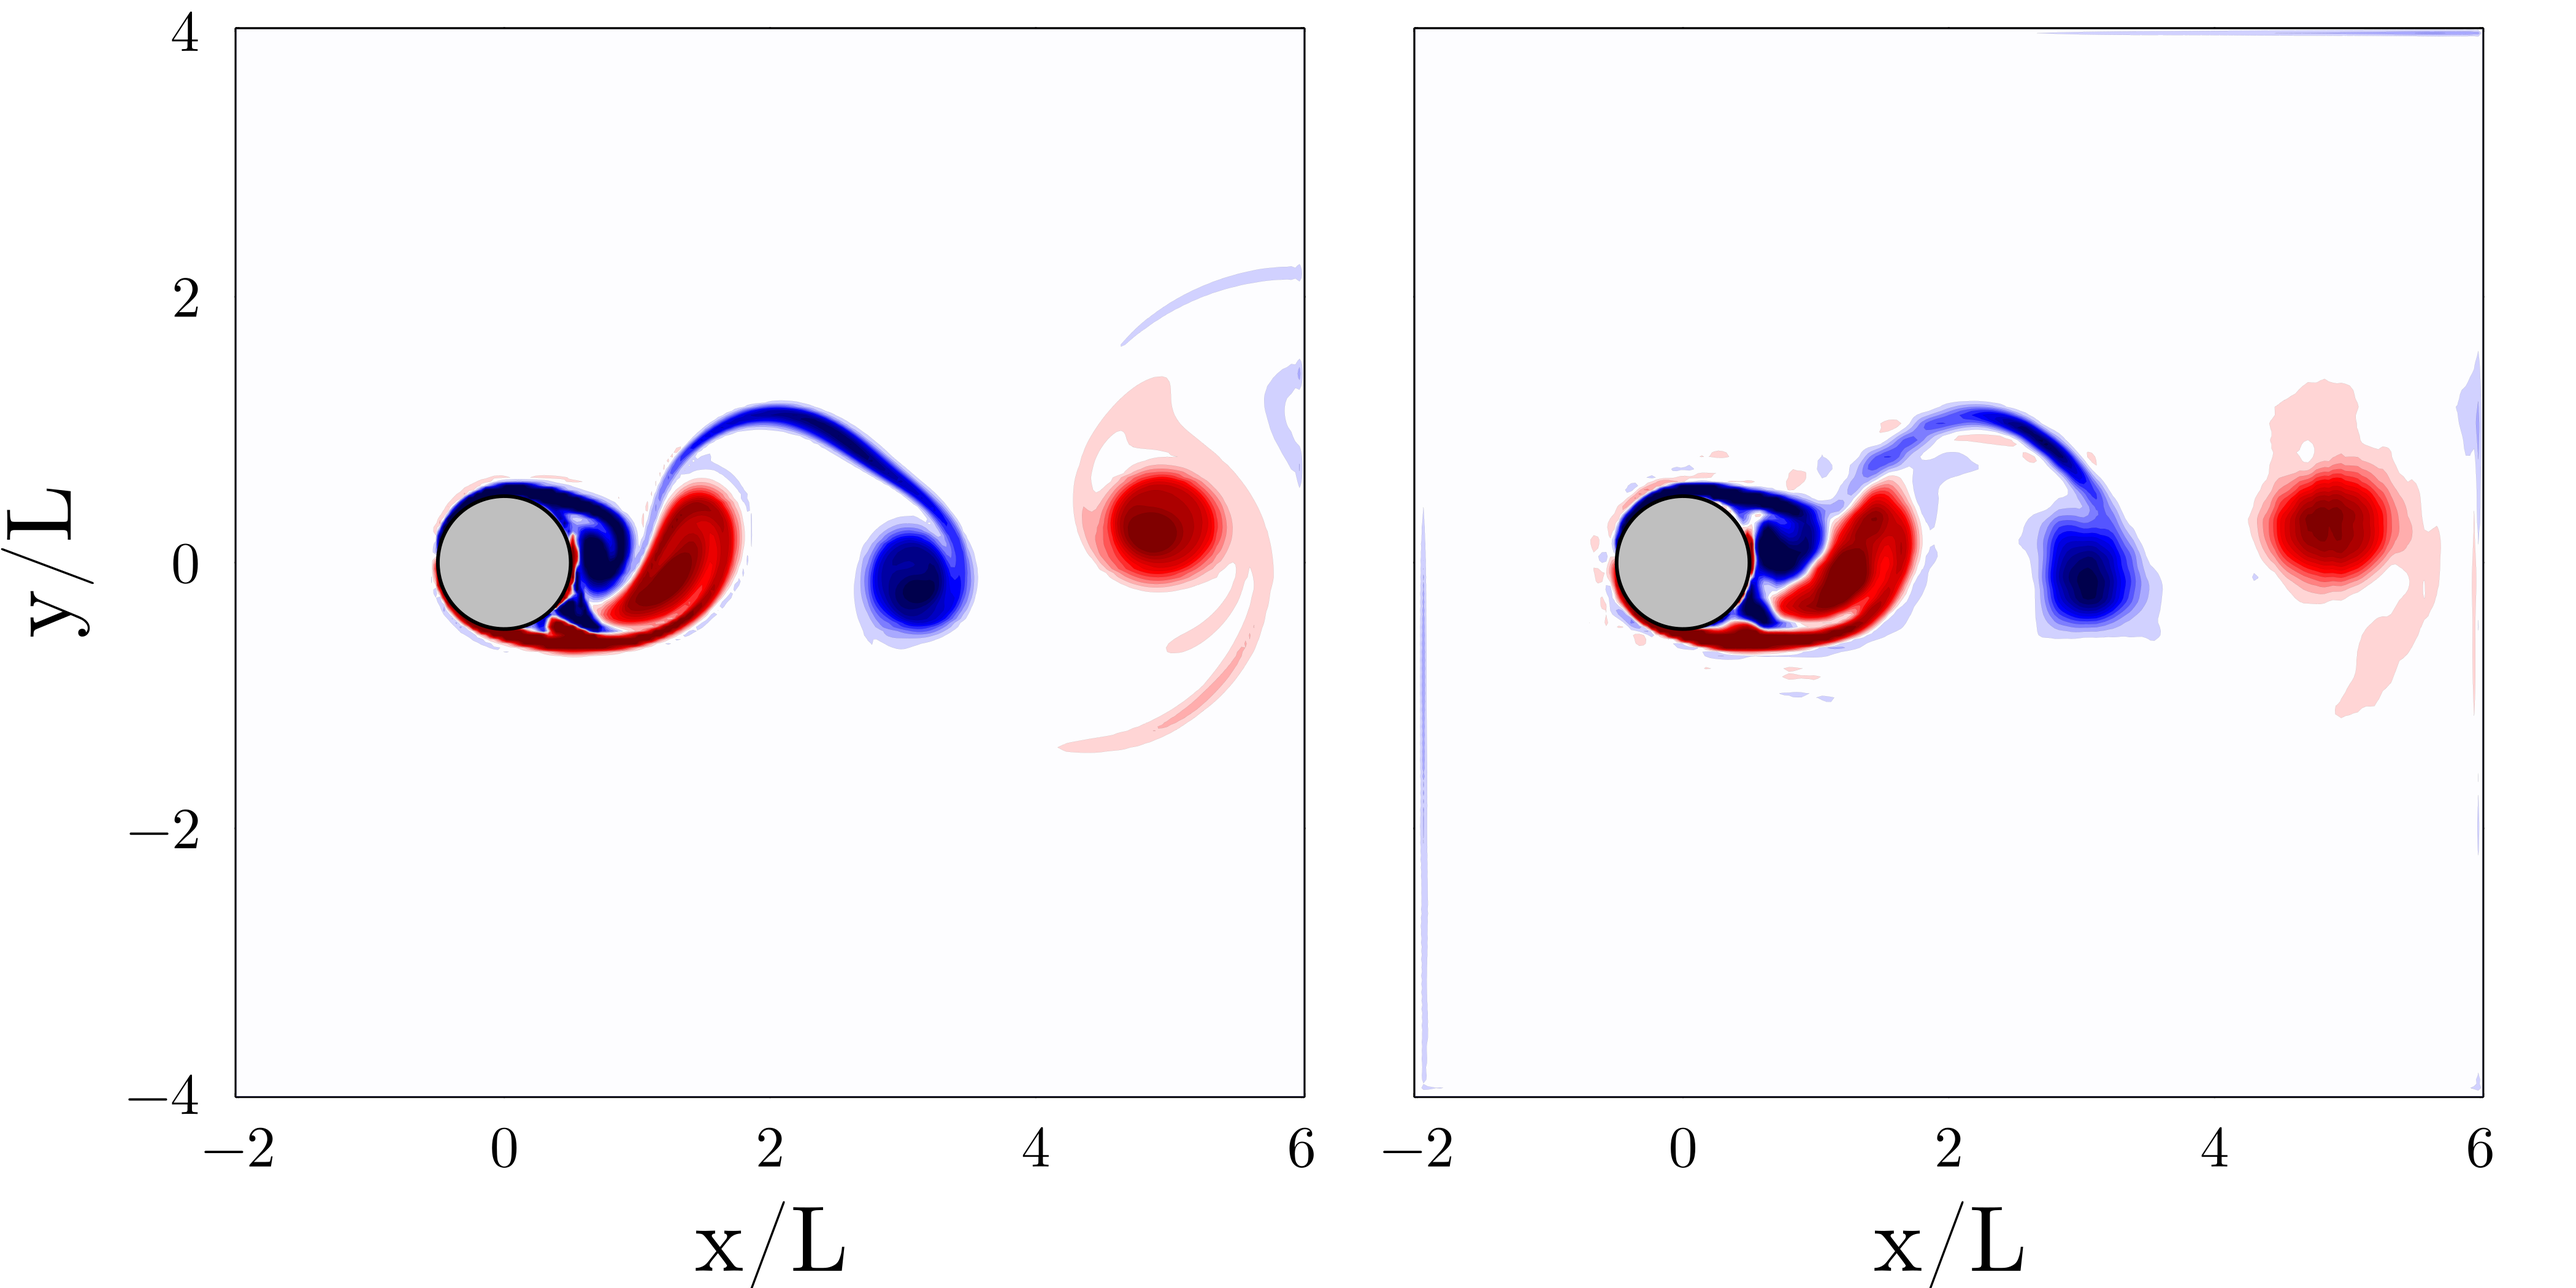
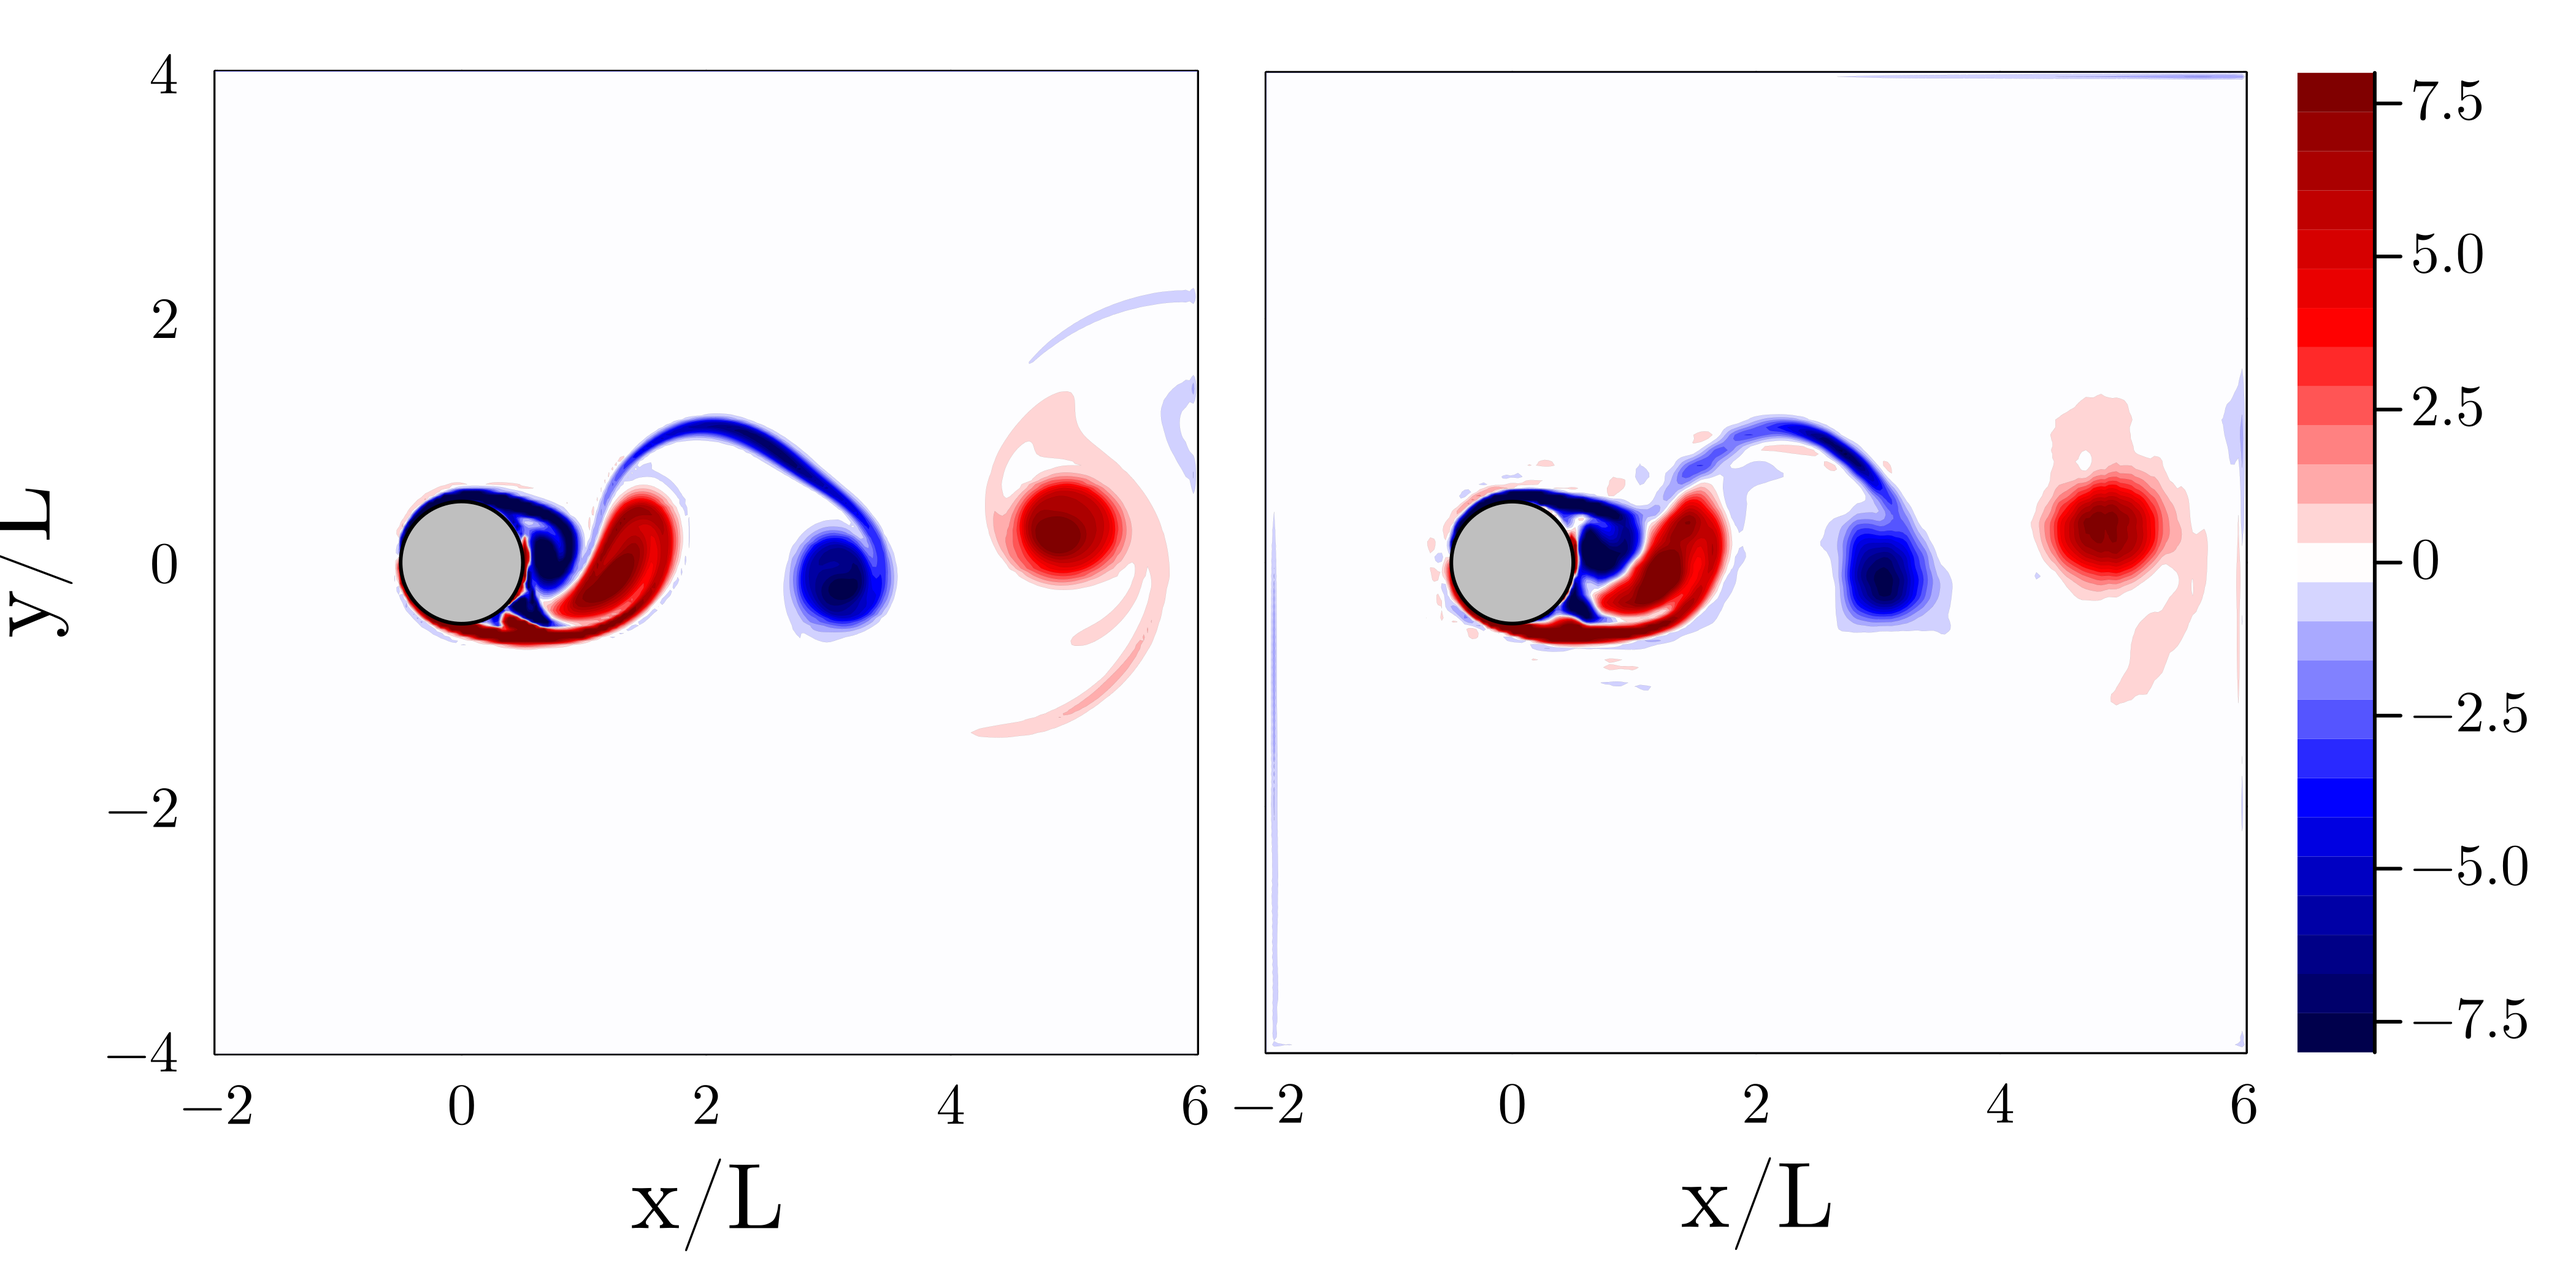
Updates from Overleaf

diff --git a/mainmatter/5. Results.tex b/mainmatter/5. Results.tex
@@ -586,8 +586,7 @@ In addition to the time-averaged statistics examined above, a physically faithfu
 In the low frequency part of the spectrum, both simulations clearly produce similar frequencies. The primary shedding frequency is nicely present at  at $fD/U \approx 0.2$ in both simulations, as was already visible in the force coefficient plot \ref{fig: base_forces}; the higher harmonics of the shedding frequency, associated with the secondary wake structures discussed in \ref{fig: vortex_shedding}, are also captured by the hybrid simulation. The hybrid and reference curve remain closely aligned in the middle frequency range, until the curves separate near $fD/U \approx 2$--$3$. No genuine Kolmogorov $f^{-5/3}$ inertial subrange is expected in a two-dimensional wake at $Re=2500$, in two dimensions the forward (small-scale) cascade follows the steeper $k^{-3}$ enstrophy scaling rather than $k^{-5/3}$ \cite{Boffetta2011}. 
 
 Beyond the separation frequency near $fD/U \approx 2$--$3$, the reference falls steeply to $\mathcal{O}(10^{-10})$, whereas the hybrid seems to move into a plateau two to four decades above the reference. This indicates that $\mathcal{P}$ introduces a high-frequency error that is not tied to a single frequency but is spread across the frequency range. It becomes visible only beyond the crossover near $fD/U \approx 2$--$3$, where the true spectrum drops below it;
-the crossover therefore marks the point at which the error stops being masked, not where it begins. Because this error is broadband and lies well below the energetic shedding scales, it is consistent with a reconstruction artefact of the decoder $\psi_\theta$ rather than an error in the learned latent dynamics $f_\phi$.
-
+The crossover, therefore, marks the point at which the error stops being masked, not where it begins. Because this error is broadband and lies well below the energetic shedding scales, it is consistent with a reconstruction artefact of the decoder $\psi_\theta$ rather than an error in the learned latent dynamics $f_\phi$.
 
 \subsection{Autoencoder performance}
 \label{subsect: 4_ae_performance}
@@ -615,21 +614,54 @@ The autoencoder is the entry and exit point of every $\tilde{\boldsymbol{\mathca
 \autoref{fig: combined_training_base} extends the loss over the 2 retraining stages, where each stage updates the weights for an additional $100$ epochs using a reduced learning rate (\autoref{subsect: retraining}). The first learning rate leaves the losses mostly unchanged, but with additional data, it has learned additional dynamics, reflected in the ability to perform longer rollouts, as discussed in \autoref{subsect: 4_forces}. The second retrain drives the test loss up by nearly an order of magnitude while train and validation hold steady: the accumulated dissipative drift (\autoref{subsect: 4_forces}) has pushed $\mathcal{S}$ into a regime that is under-represented in the training data, which makes it so that the generalisation outside of the training regime drastically worsens. This same disparity in training data, and current state of $\mathcal{S}$, is also reflected in the immediately truncated rollouts $7$ and $9$ (\autoref{tab: base_rollout_summary}).
 
 \subsubsection{Instantaneous reconstruction performance}
-The reconstruction of an instantaneous velocity field is displayed in  \autoref{fig: base_velocity_comp} for the two velocity components. These figures show that $\psi_\theta$ performs well in reconstructing the large scale structures of the flow, aligning with the conclusions from \autoref{subsect: 4_physical_consistency}
+The reconstruction of an instantaneous velocity field is displayed in  \autoref{fig: base_velocity_comp} for the two velocity components. These figures show that $\psi_\theta$ performs well in reconstructing the large scale structures of the flow, aligning with the conclusions from \autoref{subsect: 4_physical_consistency}.
 
 \begin{figure}[htp]
     \centering
-    \includegraphics[width=\linewidth]{figures/Results/base/velocity_comp.png}
-    \caption{Caption}
+    \begin{tikzpicture}
+        \node[anchor=south west, inner sep=0] (img)
+            {\includegraphics[width=0.95\linewidth]{figures/Results/base/velocity_comp.png}};
+        % normalised coords: (0,0)=bottom-left, (1,1)=top-right of the image
+        \begin{scope}[x={(img.south east)}, y={(img.north west)}]
+            % --- column headers ---
+            \node[anchor=south] at (0.30, 0.95) {\large $\mathbf{u}$};
+            \node[anchor=south] at (0.7, 0.95) {\large $\hat{\mathbf{u}}$};
+            % --- row labels ---
+            % \node[rotate=90, anchor=center] at (-0.02, 0.75) {$u/U$};
+            % \node[rotate=90, anchor=center] at (-0.02, 0.3) {$v/U$};
+        \end{scope}
+    \end{tikzpicture}
+    \vspace{-2em}
+    \caption{Instantaneous reconstruction of the velocity field by the baseline autoencoder at $t^*=40.46$. Top row: streamwise component $u$; bottom row: transverse component $v$. Left column: WaterLily reference; right column: instantaneous autoencoder reconstruction $\hat{\mathbf{u}}=\psi_\theta(\varphi_\theta(\mathbf{u}))$}
     \label{fig: base_velocity_comp}
 \end{figure}
 
-\begin{figure}[H]
+The instantaneous reconstructions are visibly smoother than the reference, most notably along the thin shear layers separating from the cylinder. These over-smoothing and the concentration of error in high-gradient regions are documented failure modes of autoencoders applied to turbulent flows, as they have shown to reproduce the large-scale coherent structures correctly but act as nonlinear filters that attenuate the small-scale, high-wavenumber content~\cite{Lu2025, Glaws2020, Jeon2022}. These smoother gradients, especially at the cylinder wall, are the direct explanation of the dissipative bias seen in the integrated forces, since the structures re-injected into $\mathcal{S}$ are systematically weaker than the reference.
+
+This "smoothing" of the reconstructed field is more apparent when computing the vorticity using the reconstructed velocity components. The instantaneous vorticity in \autoref{fig: base_curl_comp} shows how the effect of the more smeared out velocity gradients.
+
+\begin{figure}[htp]
     \centering
-    \includegraphics[width=\linewidth]{figures/Results/base/curl_comp.png}
-    \caption{Caption}
+    \begin{tikzpicture}
+        \node[anchor=south west, inner sep=0] (img)
+            {\includegraphics[width=.95\linewidth]{figures/Results/base/curl_comp.png}};
+        % normalised coords: (0,0)=bottom-left, (1,1)=top-right of the image
+        \begin{scope}[x={(img.south east)}, y={(img.north west)}]
+            % --- column headers ---
+            \node[anchor=south] at (0.275, 0.95) {Reference};
+            \node[anchor=south] at (0.675, 0.95) {Reconstructed};
+            % --- row labels ---
+            % \node[rotate=90, anchor=center] at (-0.02, 0.75) {$u/U$};
+            % \node[rotate=90, anchor=center] at (-0.02, 0.3) {$v/U$};
+        \end{scope}
+    \end{tikzpicture}
+ \caption{Instantaneous vorticity $\omega$ of the same snapshot as \autoref{fig: base_velocity_comp}. Left: WaterLily reference; right: autoencoder reconstruction. The reconstructed shear layers and vortex cores are diffused and exhibit reduced peak amplitudes, illustrating the autoencoder's low-pass behaviour.}
     \label{fig: base_curl_comp}
 \end{figure}
+
+The reference shear layers and shed vortex cores are sharp and compact, whereas the reconstructed field is diffuse: the cores are spread over a wider area at reduced peak amplitude, and the thin braid of vorticity in the immediate wake is largely smeared out. \autoref{fig: base_curl_comp} also shows the addition of noisy artefacts in the near-wall region and close to the vortices, which explains the presence of the added noise observed in \autoref{subsect: 4_physical_consistency}. 
+
+Overall, the autoencoder faithfully reproduces the large-scale structures in the wake and shedding cycle, with $CC_u,\, CC_v$ converging near unity, at the cost of attenuating the small-scale content revealed by the vorticity field. These characteristics set the pipeline's accuracy floor; investigating whether it can be lowered by varying the latent dimension, the physics-loss weights, or the training procedures is the subject of the parameter study in \autoref{subsect: 4_ae_parameters}.
 
 
 \subsection{NODE performance}

diff --git a/mainmatter/3. Methodology.tex b/mainmatter/3. Methodology.tex
@@ -990,7 +990,7 @@ $(\mathbf{u}_{\mathcal{S}}, p_{\mathcal{S}}) \gets \texttt{biot\_mom\_step}(\mat
 
 \subsubsection{First Projection}
 
-The first stage (\autoref{alg: inject}, line~4) is a single Biot--Savart projection applied using the injected velocity field. Following~\cite{Weymouth2025}, the partitioned Poisson--Biot--Savart system is evaluated to make the injected velocity field actually divergence-free, and to calculate the matching pressure field to achieve the divergence-free condition. After this step, the interior velocity satisfies $u_{i,i} = 0$ and a pressure field $p_{\mathcal{S}}$ has been recovered that is coupled with $\hat{\mathbf{u}}$, removing the lag introduced by the surrogate rollout.
+The first stage (\autoref{alg: inject}, line~4) is a single Biot--Savart projection applied using the injected velocity field. Following~\cite{Weymouth2025Biot}, the partitioned Poisson--Biot--Savart system is evaluated to make the injected velocity field actually divergence-free, and to calculate the matching pressure field to achieve the divergence-free condition. After this step, the interior velocity satisfies $u_{i,i} = 0$ and a pressure field $p_{\mathcal{S}}$ has been recovered that is coupled with $\hat{\mathbf{u}}$, removing the lag introduced by the surrogate rollout.
 
 \subsubsection{Second Predictor-Corrector}
 The second stage (\autoref{alg: inject}, line~5) is a single Heun predictor--corrector step using the Biot--Savart projection on both substeps, identical to the scheme \texttt{mom\_step!} applies during ordinary time integration. This step is needed because the pressure recovered by the first Biot--Savart Projection is couple to  $\hat{\mathbf{u}}$, in the sense that it makes the predicted field divergence-free, but $\hat{\mathbf{u}}$ itself is not a correct Navier--Stokes state; particularly due to the fact that the decoder struggles with reproducing sharp gradients near the body boundary, which do not match the kernel-smoothed momentum balance that BDIM enforces near the immersed boundary~\cite{Maertens2015}. When the Poisson solver is asked to make such a field divergence-free, the resulting pressure contains pressure values that absorb these inconsistencies into a non-physical pressure impulse. If we were to sample the pressure force on the body at this stage, the resulting forces would produce a sudden peak in $C_d$ and $C_l$, which could offset the stability of the simulation $\mathcal{S}$. 
